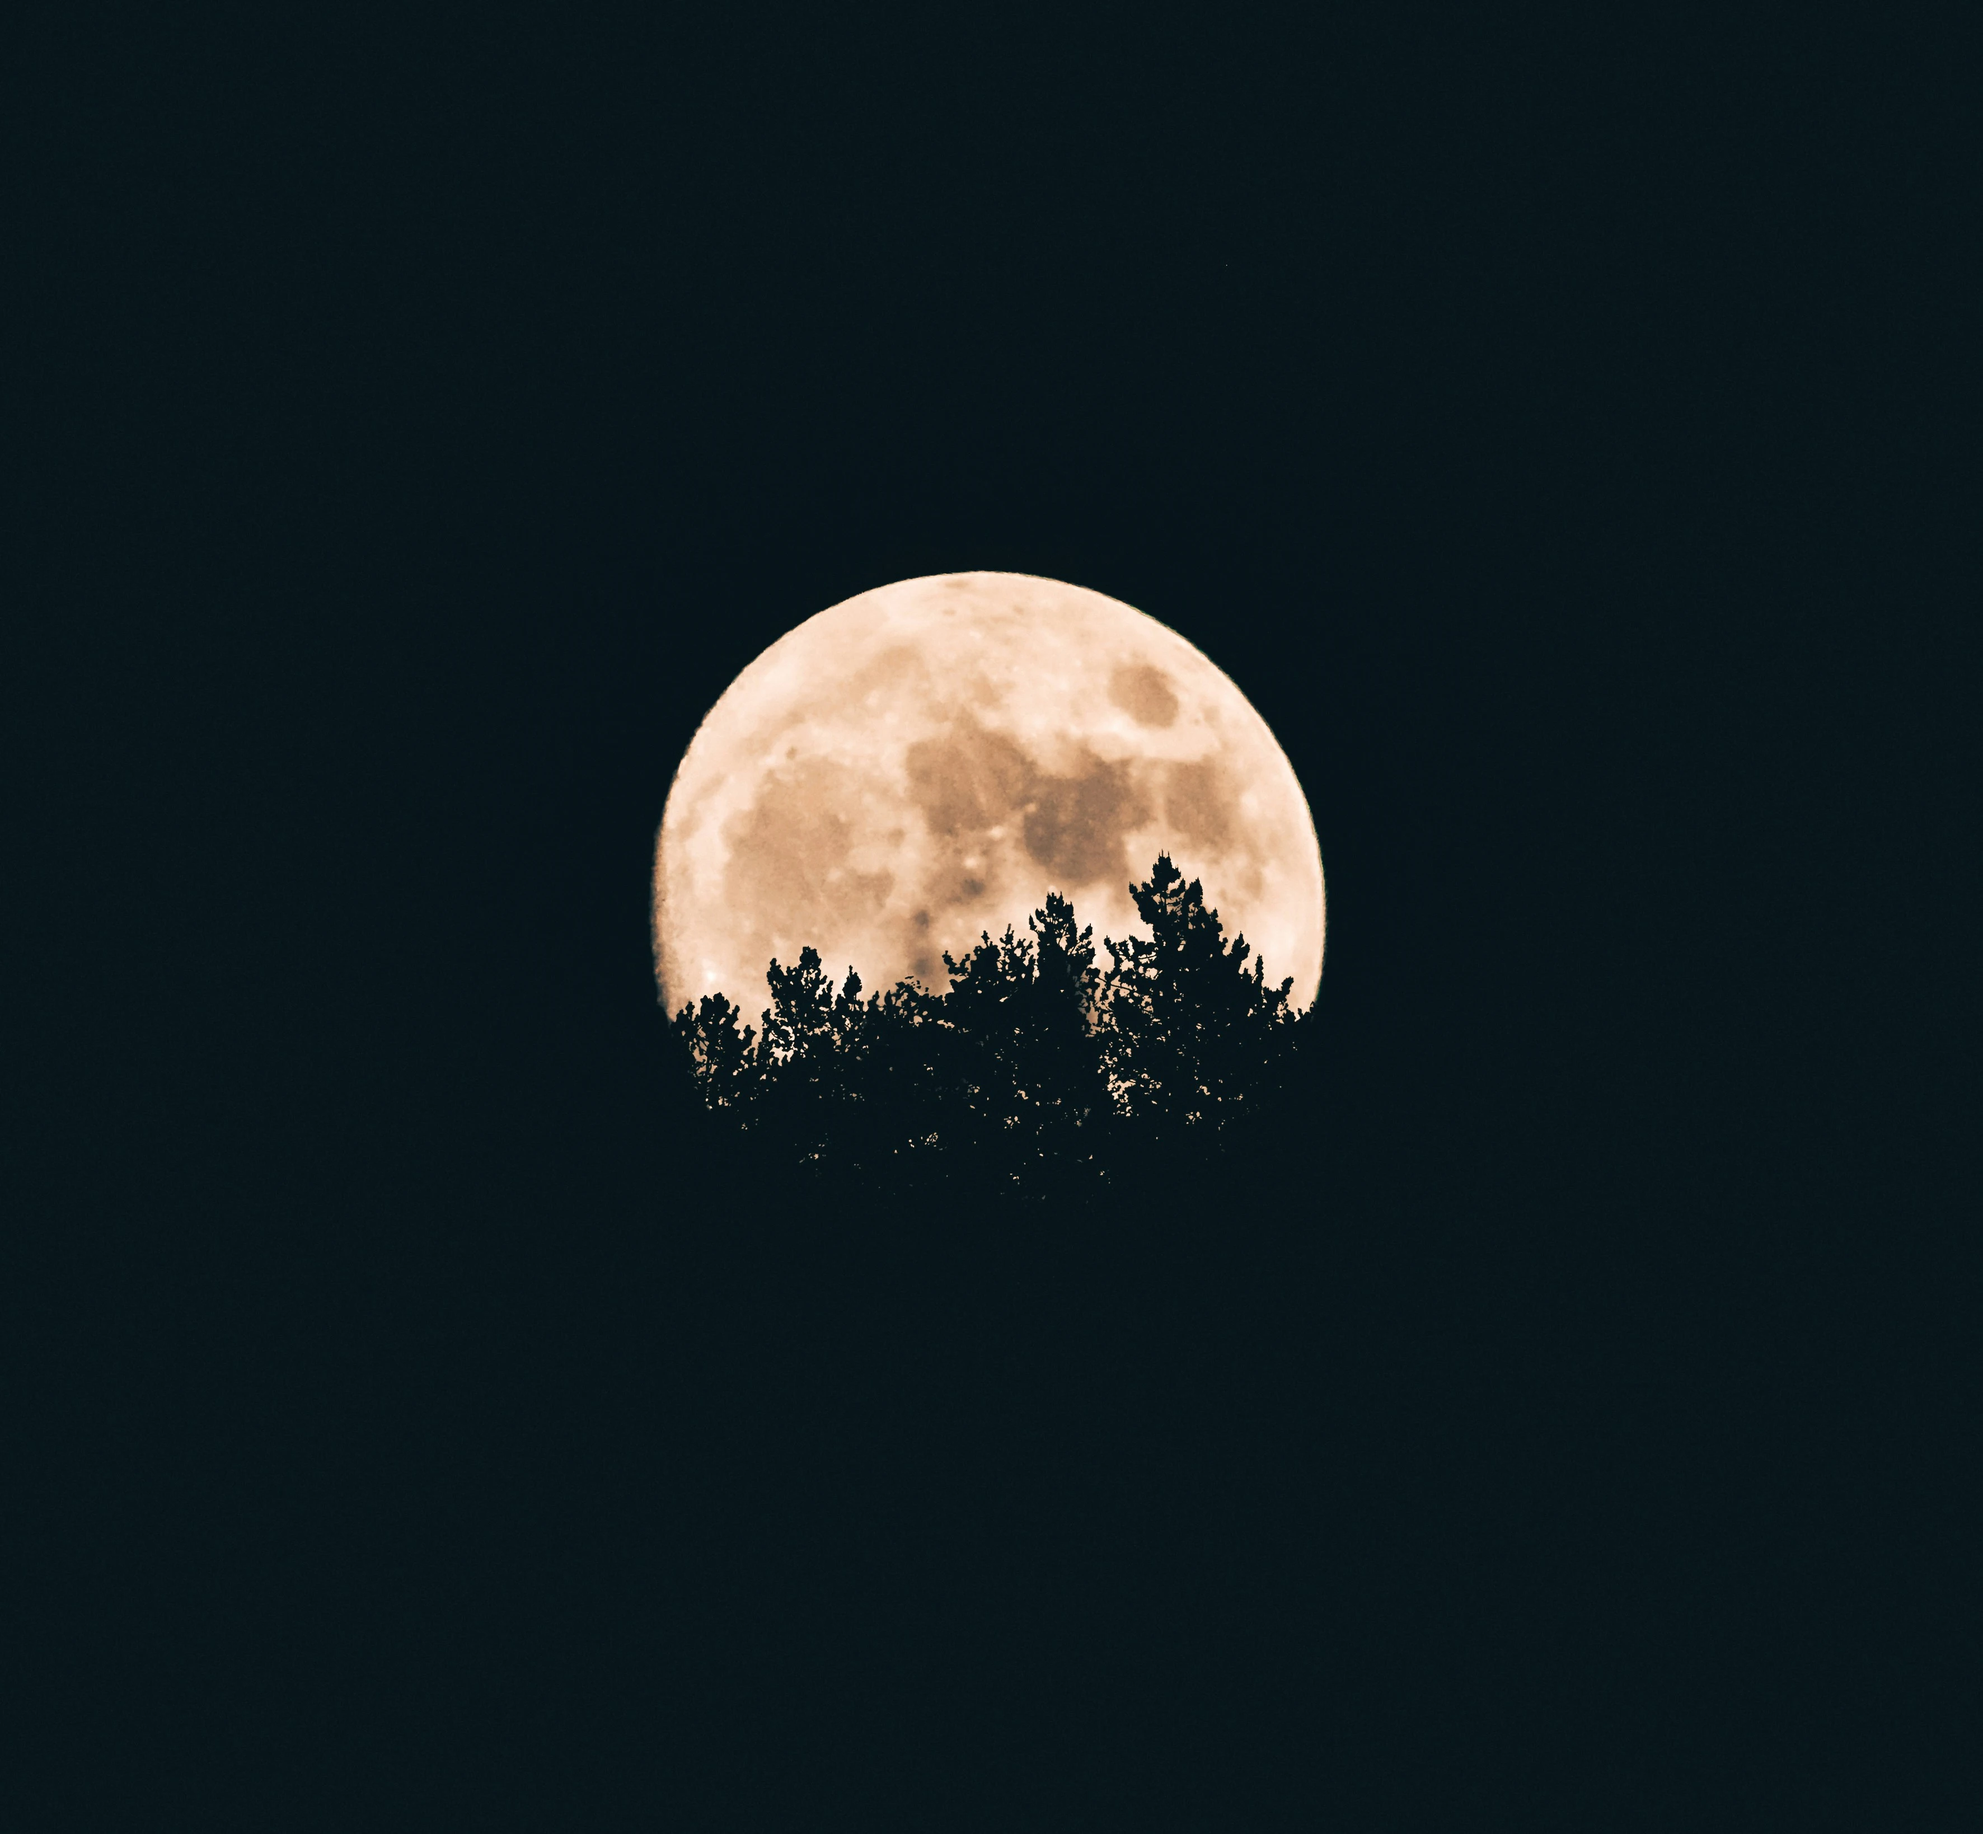
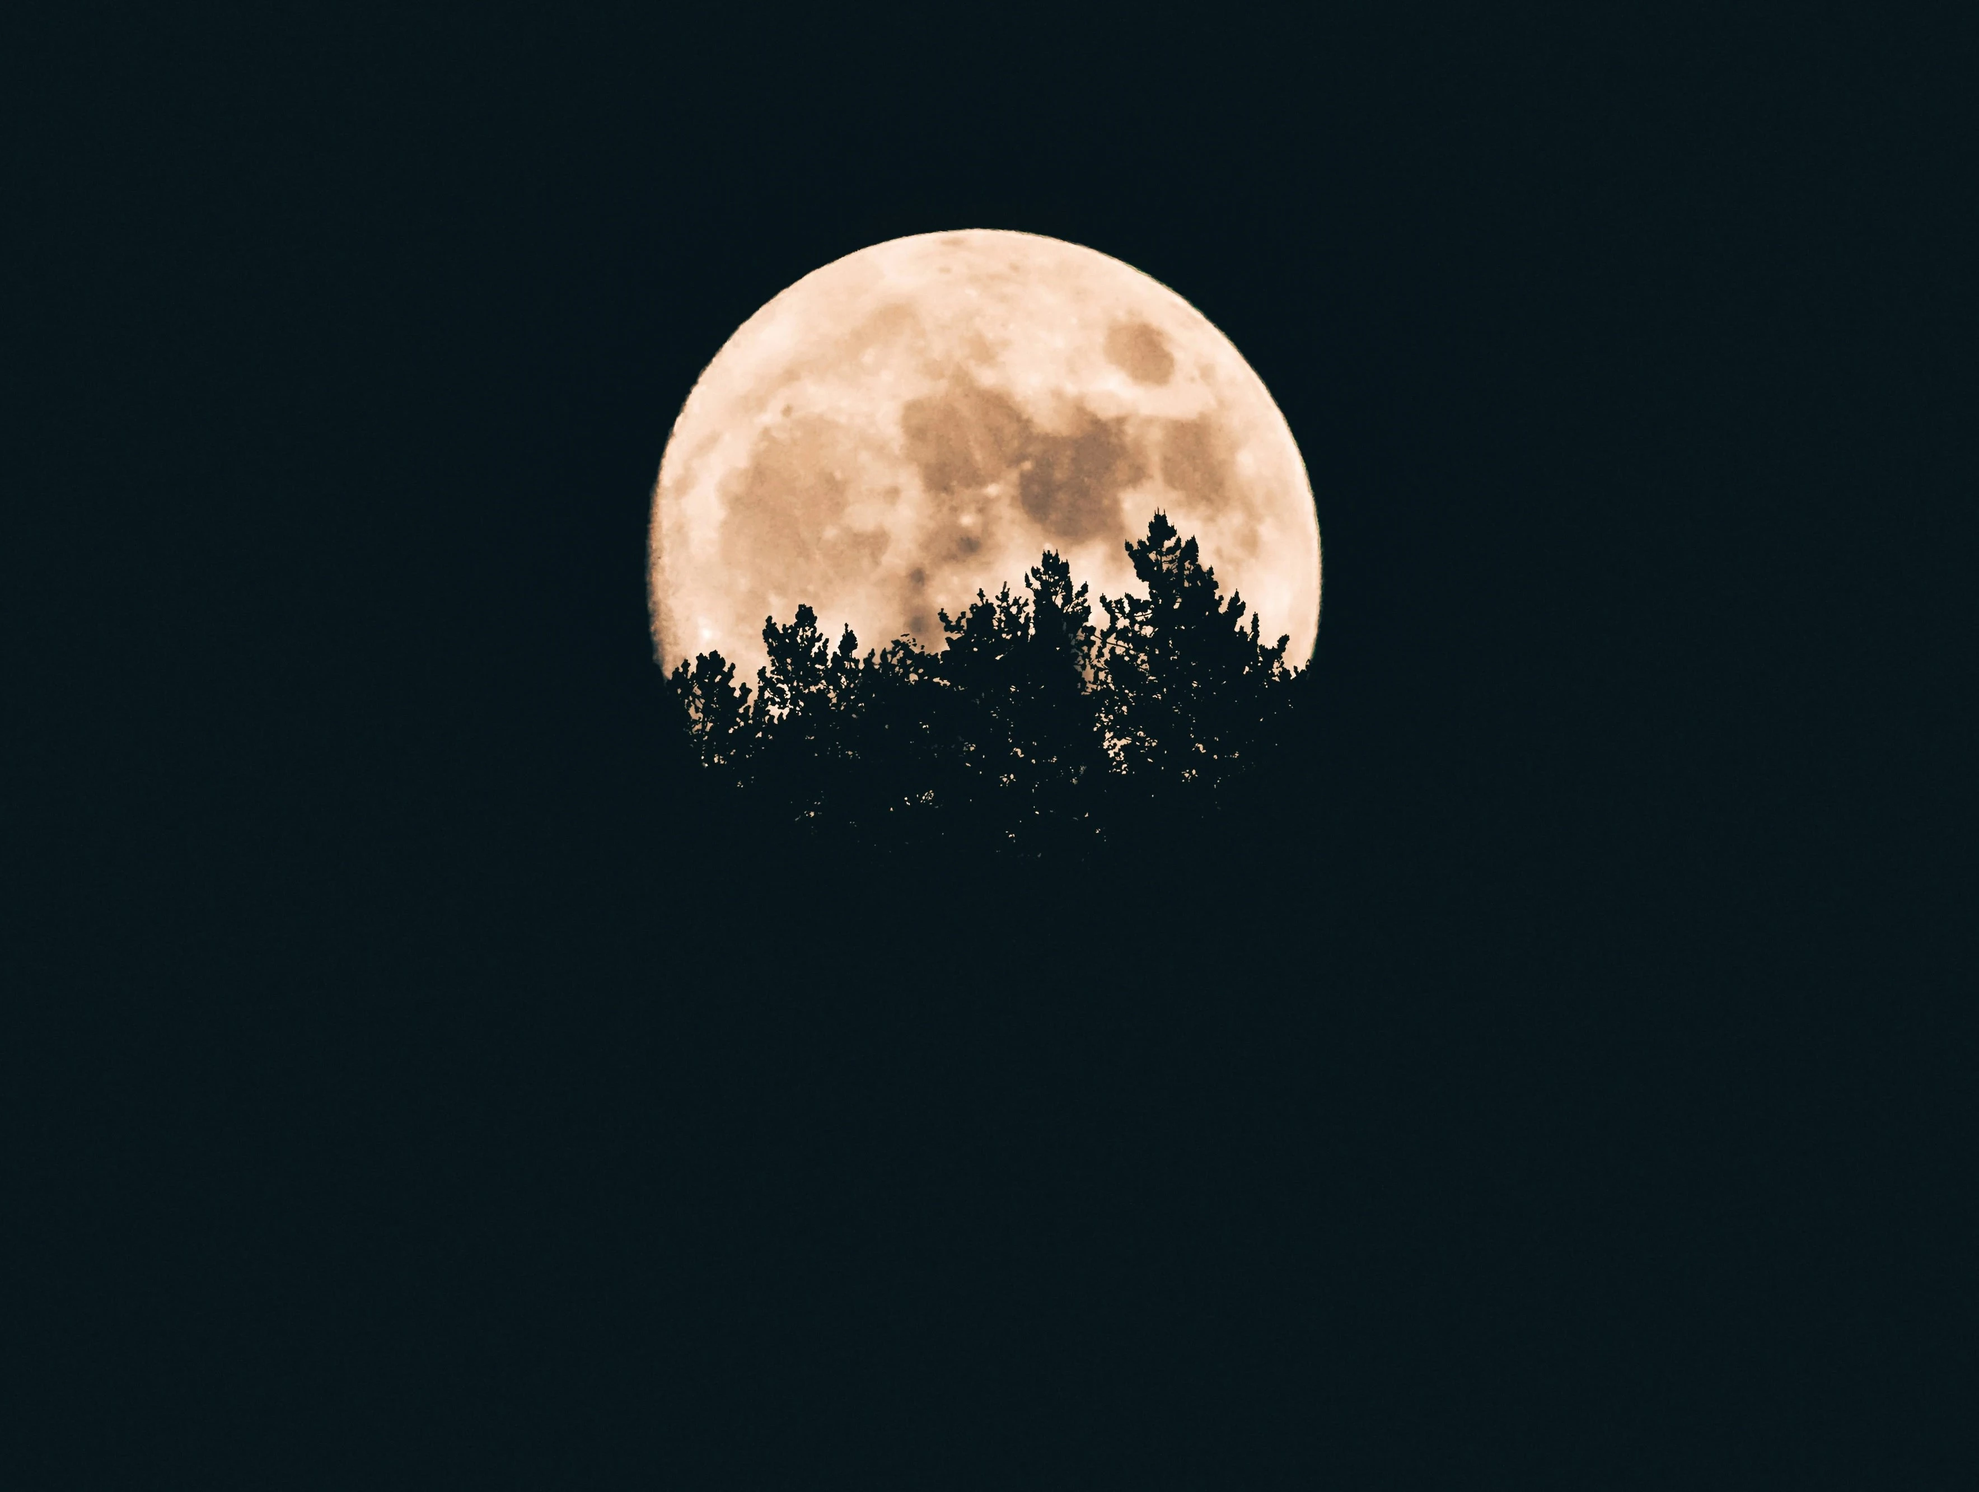
added backgrounf and css

Changed region(s): [[0.3112, 0.1557, 0.6846, 0.6229]]

diff --git a/style.css b/style.css
@@ -5,7 +5,7 @@
 *{
     margin: 0;
     padding: 0;
-    box-sizing:  border-box;
+    box-sizing: border-box;
 }
 html,body{
     height: 100%;
@@ -15,6 +15,8 @@ html,body{
     height: 100%;
     width: 100%;
     background-image: url(./moon.webp);
+    background-size: cover;
+    
 }
 h1{
     position: absolute;
@@ -24,5 +26,5 @@ h1{
     font-family: buttermilk;
     font-weight: 100;
     font-size: 190px;
-    
+
 }

diff --git a/index.html b/index.html
@@ -4,6 +4,7 @@
     <meta charset="UTF-8">
     <meta name="viewport" content="width=device-width, initial-scale=1.0">
     <title>Document</title>
+    <link rel="stylesheet" href="style.css">
 </head>
 <body>
     <div id="bg">
